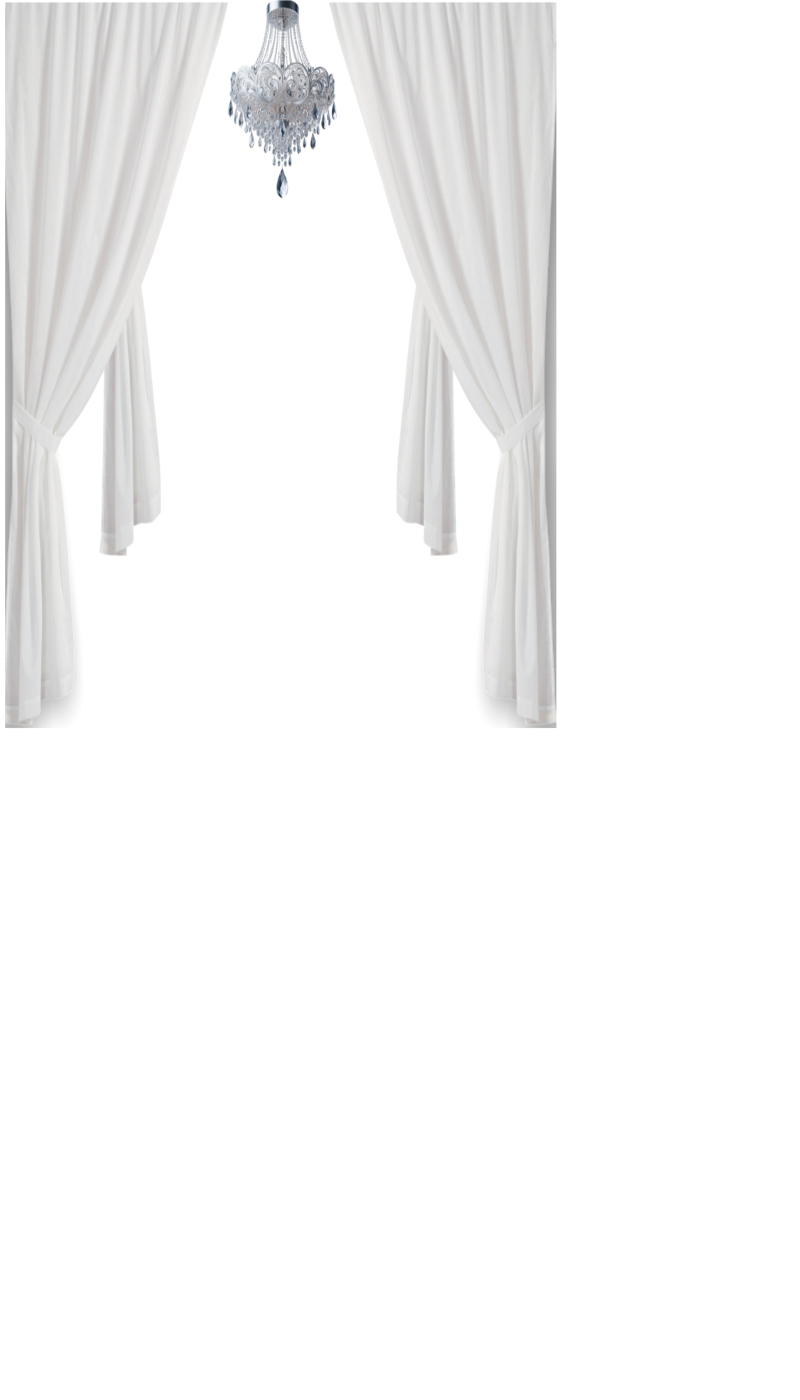
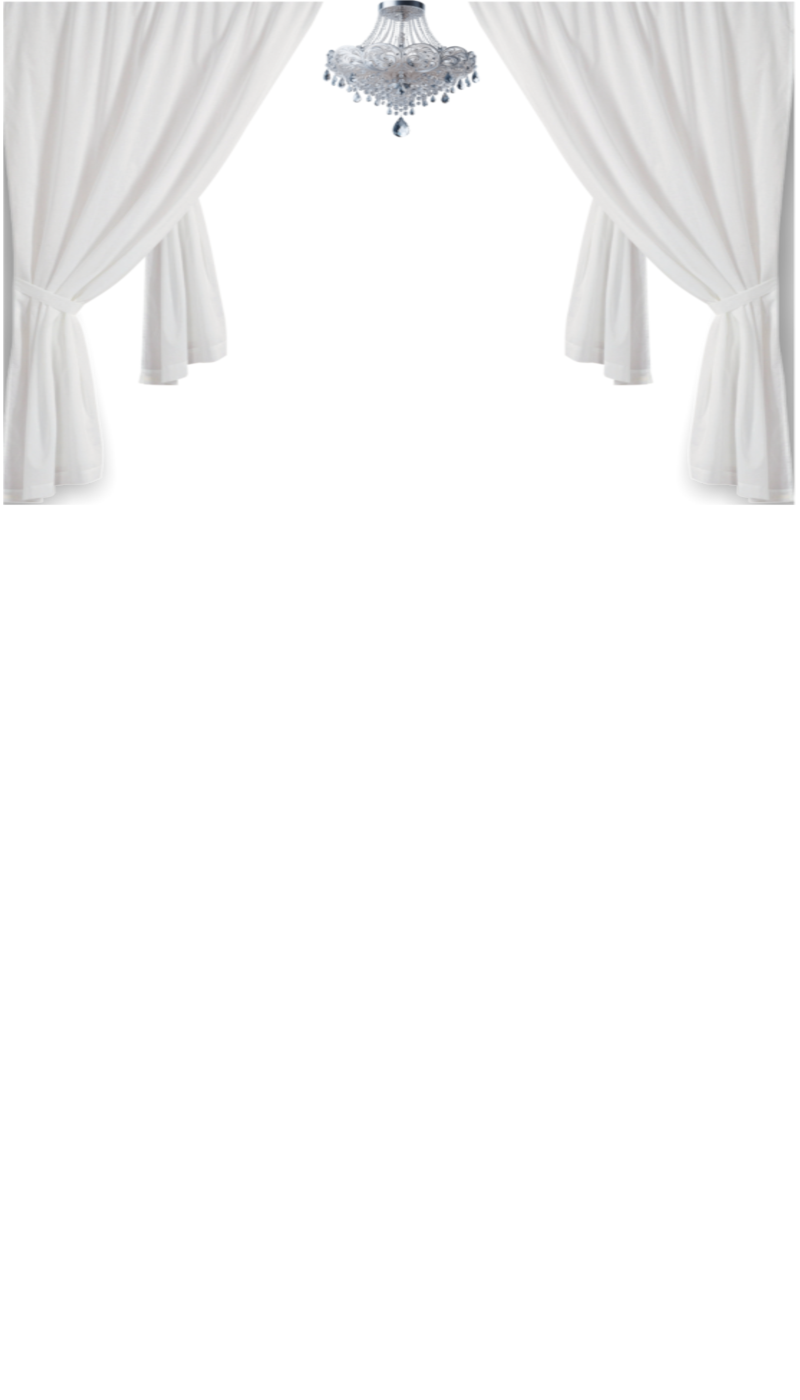
finish

Changed region(s): [[0.0, 0.0, 1.0, 0.5221]]

diff --git a/style.css b/style.css
@@ -110,8 +110,8 @@ body {
     position: absolute;
     top: 0;
     left: 0;
-    width: 180%;
-    height: 200%;
+    width: 100%;
+    height: 150%;
     background-image: url('images/perde-top.png');
     background-repeat: no-repeat;
     background-position: top center;
